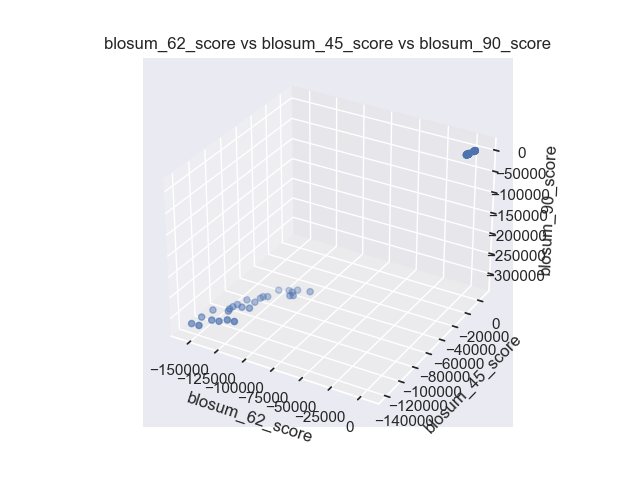
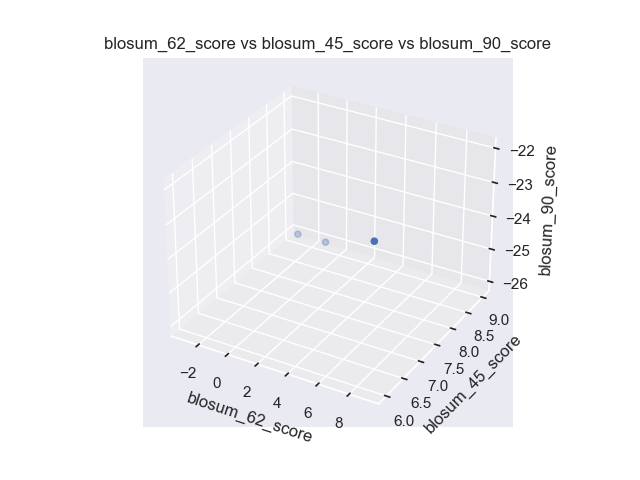
added match_count and move_end_gap

diff --git a/EvoAlign/monkey_align.py b/EvoAlign/monkey_align.py
@@ -7,6 +7,7 @@ from collections import Counter
 import itertools
 import copy
 import blosum as bl
+import random as rnd
 
 DELETION, INSERTION, MATCH = range(3)
 BLOSUM_MATRICES = {45: bl.BLOSUM(45), 50: bl.BLOSUM(50), 62: bl.BLOSUM(62), 80: bl.BLOSUM(80), 90: bl.BLOSUM(90)}
@@ -17,6 +18,7 @@ class MonkeyAlign():
 
         # Numpy array of character arrays (with trailing gaps)
         self.seqs = []
+        self.num_seqs = 0
 
     def _read_fasta(self, files):
         """ Read in fasta file(s)
@@ -43,7 +45,34 @@ class MonkeyAlign():
         # convert sequence strings to numpy character arrays
         self.seqs = list(map(np.array, self.seqs))
 
+        # update number of seqs
+        self.num_seqs = len(self.seqs)
+
         # return seqs
+        return self.seqs
+
+    def load_str(self, *str_seq):
+        """ Allows user to input sequences as string
+
+        Args:
+            str_seq (str): *args as many strings as the user wants
+
+        Returns:
+
+        """
+        # set self.seqs to a list of np.arrays
+        self.seqs = [np.array([char for char in current_str],
+                                       dtype='<U1') for current_str in str_seq]
+
+        # update number of seqs
+        self.num_seqs = len(self.seqs)
+
+        # add trailing sequences so they match lengths
+        self._add_trailing()
+
+        # convert list of arrays to 2D ndarray
+        self.seqs = np.array(self.seqs, dtype='<U1')
+
         return self.seqs
 
     def _add_trailing(self):
@@ -68,48 +97,41 @@ class MonkeyAlign():
         # convert list of arrays to 2D ndarray
         self.seqs = np.array(self.seqs)
 
-    def count_gaps(self):
-        """ Calculates the sum of pairs for matches, mismatches, and gaps
+
+    # FITNESS CRITERIA
+    def match_count(self):
+        """ Calculates the number of matches
 
             Return:
                 score (int): sum of pairs score for the fasta array
         """
 
         # Initialize score
-        gap_score = 0
+        match_score = 0
 
         # Iterates through each position in the alignment
         for pos in self.seqs.T:
 
             # Subtracts 1 at each position if a gap is present
-            gap_score = sum([-1 if ('*' in (x, y) and len({x, y}) > 1) else 0 
+            match_score += sum([1 if (x == y and x != '*') else 0
                              for i, x in enumerate(pos)
                              for j, y in enumerate(pos) if i > j])
 
         # return score
-        return gap_score
+        return match_score
 
-    def load_str(self, *str_seq):
-        """ Allows user to input sequences as string
-
-        Args:
-            str_seq (str): *args as many strings as the user wants
+    """# assists a fitness criteria
+    def _split_align(self):
+        ''' splits the alignment into first and second half to run sum pairs score
+        we want to get the seq
 
         Returns:
 
-        """
-        # set self.seqs to a list of np.arrays
-        self.seqs = [np.array([char for char in current_str],
-                                       dtype='<U1') for current_str in str_seq]
-
-        # add trailing sequences so they match lengths
-        self._add_trailing()
-
-        # convert list of arrays to 2D ndarray
-        self.seqs = np.array(self.seqs, dtype='<U1')
-
-        return self.seqs
-
+        '''
+        first_half = self.seqs[:int(0.5*len(self.seqs))]
+        second_half = self.seqs[int(0.5*len(self.seqs)):]
+        
+        return first_half, second_half"""
 
     def get_seqs(self):
         """ Retrieve array of sequences
@@ -273,5 +295,44 @@ class MonkeyAlign():
         # convert list of arrays to 2D ndarray
         self.seqs = np.array(self.seqs, dtype='<U1')
 
+        # modification agent
+
+    @staticmethod
+    def _get_begin_trail(seq):
+        """ gets you the index of the last character before trailing seqs begin"""
+
+        for i in range(len(seq)-1, -1, -1):
+            if seq[i] != '*':
+                return i
+        # just in case that the if statement is never true
+        return len(seq)-1
+
+    def move_end_gap(self):
+        """ Take a trailing sequence and randomly insert it for one sequence """
+
+        # get the index for a random sequence
+        rand_seq_idx = rnd.randint(0, self.num_seqs - 1)
+
+        # if there is at least one gap at the end
+        if self.seqs[rand_seq_idx][-1] == '*':
+            # pick a random index for the position, not including the other trailing gaps
+            rand_pos_idx = rnd.randint(0, MonkeyAlign._get_begin_trail(self.seqs[rand_seq_idx]))
+
+            # must use temp_storage because we are changing the length
+            temp = self.seqs[rand_seq_idx][:-1]
+
+            temp = np.insert(temp, rand_pos_idx, '*')
+
+            # reset the seq to the new one
+            self.seqs[rand_seq_idx] = temp
+
+            # must return a MonkeyAlign object
+            return self
+
+        # if no trailing gaps
+        else:
+            return self
+
     def __repr__(self):
         return str(self.seqs)
+

diff --git a/functional_evo.py b/functional_evo.py
@@ -12,7 +12,7 @@ BLOSUM = {45: bl.BLOSUM(45), 50: bl.BLOSUM(50), 62: bl.BLOSUM(62), 80: bl.BLOSUM
 
 # agent
 def smith_waterman_align(curr_align):
-    """ takes in MonkeyAlignment object
+    """ takes in MonkeyAlign object
 
     Args:
         curr_align:
@@ -23,6 +23,14 @@ def smith_waterman_align(curr_align):
     # ASSERT HERE?
     curr_align = curr_align[0]
     return curr_align.smith_waterman()
+
+# dumb mod agent
+def move_end_gap(curr_align):
+    """ removes a trailing sequence of one randomly selected seqeunce and randomly adds in a gap (maintains length)
+    takes in MonkeyAlign object and calls .move_end_gap() method
+    """
+    curr_align = curr_align[0]
+    return curr_align.move_end_gap()
 
 
 # fitness criteria
@@ -38,23 +46,23 @@ def blosum_90_score(curr_align):
     return curr_align.sum_pairs_score(matrix=BLOSUM[90])
 
 
-def count_gaps(curr_align):
-    return curr_align.count_gaps()
+def match_count(curr_align):
+    return curr_align.match_count()
 
 
 def main():
     # path to all.fasta data
     #all = 'data_sources/P53_test_data/dash.fasta'
-    all = 'data_sources/P53_test_data/all.fasta'
+    #all = 'data_sources/P53_test_data/all.fasta'
 
     # create instance of Align
-    initial_object = MonkeyAlign()
+    """initial_object = MonkeyAlign()
 
     # read fasta into Align
-    initial_object.read_fasta(all)
+    initial_object.read_fasta(all)"""
 
-    #ma = monkey_align.MonkeyAlign()
-    #ma.load_str('ABCF', 'ABDEH', 'ABCD', 'BD', 'AB')
+    ma = MonkeyAlign()
+    ma.load_str('ABCF', 'ABDEH', 'ABCD', 'BD', 'AB')
 
     # create Evo environment
     E1 = Evo()
@@ -63,20 +71,26 @@ def main():
     E1.add_fitness_criteria('blosum_62_score', blosum_62_score)
     E1.add_fitness_criteria('blosum_45_score', blosum_45_score)
     E1.add_fitness_criteria('blosum_90_score', blosum_90_score)
-    E1.add_fitness_criteria('count_gaps', count_gaps)
+    E1.add_fitness_criteria('match_count', match_count)
 
     # add modification agent
     E1.add_agent('smith_waterman', smith_waterman_align)
+    E1.add_agent('move_end_gap', move_end_gap)
 
     # add initial solution
-    E1.add_solution(initial_object)
+    #E1.add_solution(initial_object)
+    E1.add_solution(ma)
 
     E1.evolve(100, dom=100, status=10)
 
-    print(E1.pop)
-
-    E1.save_solutions()
+    #E1.save_solutions()
     E1.visualize()
+
+    """ma = MonkeyAlign()
+    ma.load_str('ABCF', 'ABDEH*', 'ABCD', 'BD', 'AB')
+    ma.move_end_gap()"""
+
+
 
 if __name__ == '__main__':
     main()
